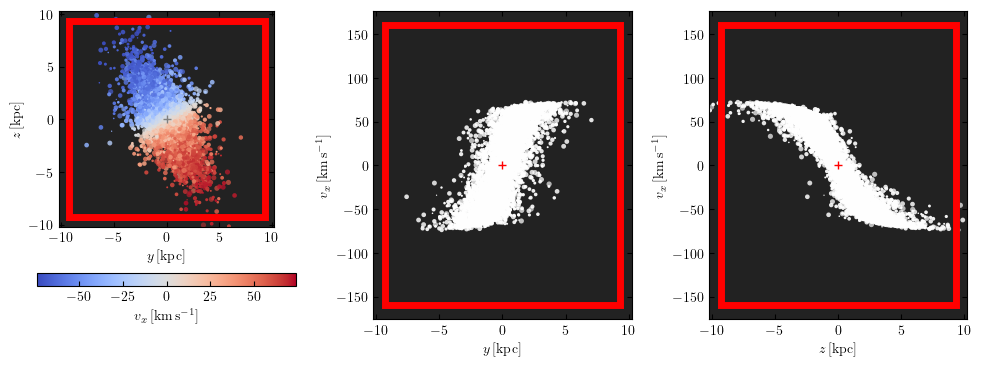
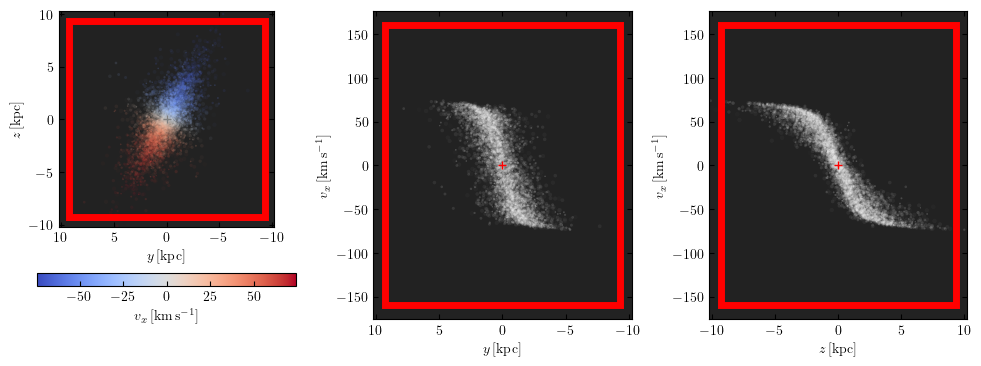
Fix bug in preview point sizing.

diff --git a/martini/sources/sph_source.py b/martini/sources/sph_source.py
@@ -437,21 +437,21 @@ class SPHSource(object):
         )
         nparts = cmask.sum()
         mask = np.arange(self.mHI_g.size)[cmask][:: max(nparts // max_points, 1)]
-        mass_factor = (
-            1
-            if (self.mHI_g.isscalar or mask.size <= 1)
-            else (self.mHI_g[mask] / self.mHI_g[mask].max()).to_value(
-                U.dimensionless_unscaled
-            )
-        )
+        # mass_factor = (
+        #     1
+        #     if (self.mHI_g.isscalar or mask.size <= 1)
+        #     else (self.mHI_g[mask] / self.mHI_g[mask].max()).to_value(
+        #         U.dimensionless_unscaled
+        #     )
+        # )
         hsm_factor = (
             1
             if (self.hsm_g.isscalar or mask.size <= 1)
-            else (1 - (self.hsm_g[mask] / self.hsm_g[mask].max())).to_value(
+            else (1 - (self.hsm_g[mask] / self.hsm_g[mask].max()) ** 0.1).to_value(
                 U.dimensionless_unscaled
             )
         )
-        alpha = (mass_factor**0 * hsm_factor**0.1) if point_scaling == "auto" else 1.0
+        alpha = hsm_factor if point_scaling == "auto" else 1.0
         size_scale = (
             self.hsm_g.to_value(U.kpc) / lim
             if (self.hsm_g.isscalar or mask.size <= 1)
